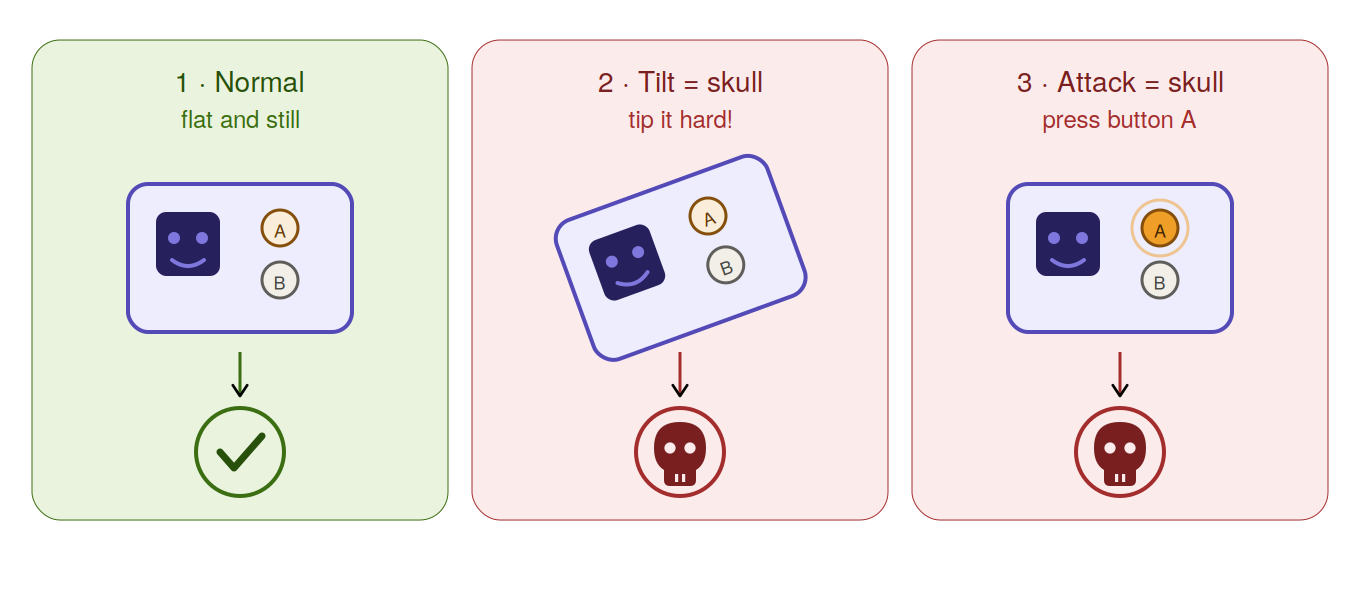
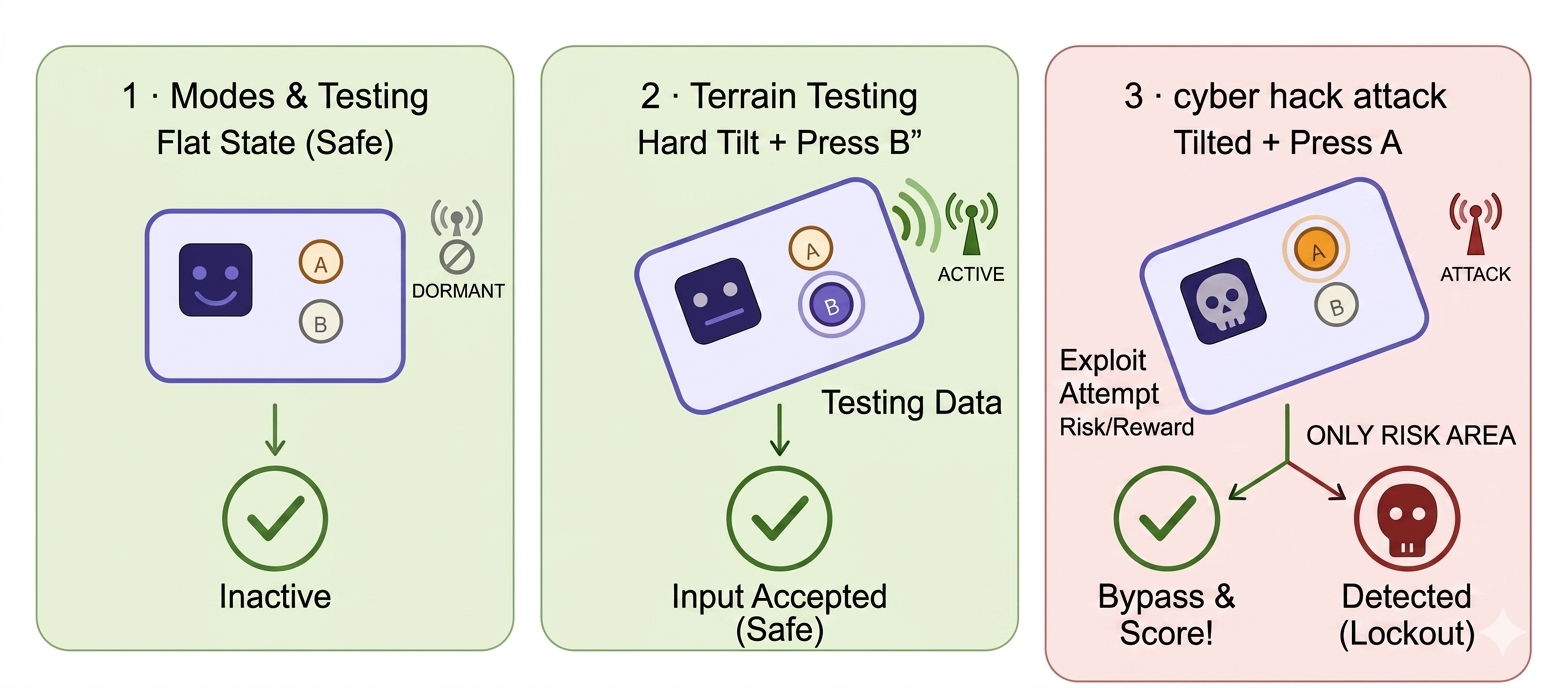
updated the lab

diff --git a/microbit_tutorial.html b/microbit_tutorial.html
@@ -311,7 +311,7 @@
 
         <div class="step">
             <h2><span class="step-number">3</span> Step 1: Programming Your Rover Controller 🕹</h2>
-            <p>Copy the code below and paste it completely into your micro:bit Python editor window. Look closely at the highlighted <strong>CHALLENGE ZONE</strong>—this is where you will tweak the logic rules!</p>
+            <p>Copy the code below and paste it completely into your micro:bit Python editor window.</p>
 
             <div class="code-container">
                 <button class="copy-btn" onclick="copyCode(this)">Copy Code</button>
@@ -388,14 +388,30 @@ while True:
         </div>
 
         <div class="step">
-            <h2><span class="step-number">4</span> Step 2: Running and Testing Your Code 🚀</h2>
+            <h2><span class="step-number">4</span> Step 2: Load your code onto the micro:bit 🚀</h2>
             <p>Ready to deploy your software? Follow this checklist to load your code onto the hardware:</p>
             <ol>
                 <li>Hook your micro:bit up to the computer using the micro-USB cable.</li>
-                <li>Select the purple <strong>Connect</strong> button in your browser editor tool, highlight your device, and click pair.</li>
-                <li>Click the <strong>Flash</strong> button. Watch the light on the back of your board blink until it is finished.</li>
-                <li><strong>Play the Game:</strong> Leave the controller resting completely flat on your desk. You will see a green checkmark (✅). Now, tilt your board sharply to one side or press down on <strong>Button A</strong>. Can you trick the system into showing the security alarm (🚨 <strong>SKULL</strong>)? If so, your simulated anomaly successfully broke past normal boundaries!</li>
+                <li>Open the MicroPython editor in your browser (use Chrome or Edge).</li>
+                <li>Click the purple <strong>Connect</strong> button in your browser editor tool, highlight your device, and click pair.</li>
+                <li>Click the <strong>Flash</strong> button.</li>
+                <li>Watch the light on the back of your board to finish blinking — this means your code is installed.</li>
             </ol>
+
+            <h2><span class="step-number">4</span> Step 3: Connect to the live system (Gateway setup) </h2>
+            <p>Now you need to connect your micro:bit to the AI telemetry system:</p>
+            <ol>
+                <li>Open <a href="https://rover-ai-shield-22216060250.europe-west2.run.app/gateway">this page</a> in Chrome or Edge.</li>
+                <li>Click the button: <strong>"Connect micro:bit"</strong>.</li>
+                <li>Select your device when prompted.</li>
+                <li>You should now see:
+                    <ul>
+                        <li>“Data link active”</li>
+                        <li>Live telemetry messages appearing in the log window</li>
+                    </ul>
+                </li>
+            </ol>
+            <p style="margin-top: 10px;">This means your micro:bit is successfully sending data to the AI system.</p>
 
             <div class="diagram-container">
                 <h4>🎮 Expected Controller Behavior</h4>
@@ -403,66 +419,68 @@ while True:
             </div>
         </div>
 
+        <div class="step">
+            <h2><span class="step-number">6</span> How to Play the System (IMPORTANT) 🎮</h2>
+            <p>Your micro:bit has two distinct operational control modes:</p>
+            <ul style="margin-top: 10px;">
+                <li><strong>🅰 Button A = ATTACK MODE</strong>
+                    <ul>
+                        <li>Sends an “exploit attempt” to the AI system.</li>
+                        <li>Counts as a hacking action on the leaderboard dashboard.</li>
+                        <li>High point reward if successful, but carries a high risk of detection.</li>
+                        <li><em>👉 Example: trying to “trick” the on-board AI security shield.</em></li>
+                    </ul>
+                </li>
+                <li style="margin-top: 10px;"><strong>🅱 Button B = NORMAL MODE</strong>
+                    <ul>
+                        <li>Sends standard movement telemetry data.</li>
+                        <li>Used for baseline exploration, testing, and debugging.</li>
+                        <li>No hacking attempt recorded by the telemetry filters.</li>
+                        <li><em>👉 Example: simulated safe rover driving behavior.</em></li>
+                    </ul>
+                </li>
+            </ul>
+
+        </div>
 
         <div class="step">
-            <h2><span class="step-number">5</span> Technical Reference: Data Layouts</h2>
-            <p>Here is a quick look at the exact information fields travelling back and forth between your controller and the server dashboard application.</p>
+            <h2><span class="step-number">7</span> Play the Challenge 🧪</h2>
+            <p>Start interacting with the telemetry matrix and see how the AI Shield updates:</p>
+            <ol>
+                <li>Leave the micro:bit hardware completely flat on your work surface.</li>
+                <li>Press <strong>Button B</strong> to send standard, safe movement data.</li>
+                <li>Tilt the physical micro:bit sideways and observe how the system dynamic metrics react.</li>
+                <li>Press <strong>Button A</strong> while tilted to attempt an automated telemetry "hack".</li>
+            </ol>
+            <p style="margin-top: 10px;">Watch carefully: The AI may reward your team with high scores, or it will detect your anomaly injection and trigger a security shield warning block!</p>
 
-            <h3>Data Sent to the Server</h3>
-            <table>
-                <thead>
-                    <tr>
-                        <th>Field Name</th>
-                        <th>Type</th>
-                        <th>What It Controls</th>
-                    </tr>
-                </thead>
-                <tbody>
-                    <tr>
-                        <td><code>team_id</code></td>
-                        <td>Text</td>
-                        <td>Logs the name of the cohort station transmitting information.</td>
-                    </tr>
-                    <tr>
-                        <td><code>attack</code></td>
-                        <td>True/False</td>
-                        <td>Tells the server if you are attempting an override command injection.</td>
-                    </tr>
-                    <tr>
-                        <td><code>mod_value</code></td>
-                        <td>Decimal</td>
-                        <td>The live tilt physical stress measurement read from your accelerometer.</td>
-                    </tr>
-                </tbody>
-            </table>
+            <div class="alert-box" style="background-color: #fef2f2; border-left: 4px solid #dc2626; color: #991b1b; margin-top: 20px; padding: 15px;">
+                <strong style="font-size: 1.1rem;">💀 AI Feedback System</strong>
+                <p style="margin-top: 5px;">After each data transmission action, check your physical micro:bit board screen for instantaneous status flags:</p>
+                <ul style="margin-top: 5px; margin-left: 20px;">
+                    <li><strong>✅ YES (Checkmark):</strong> Safe configuration / accepted input structure.</li>
+                    <li><strong>💀 SKULL:</strong> The AI detected unusual telemetry behavior. The exploit attempt was completely blocked!</li>
+                </ul>
+            </div>
+            <div class="challenge-box" style="background-color: #fff7ed; border-left: 4px solid #f97316; padding: 15px; margin-top: 20px;">
+                <h4 style="color: #c2410c;">⚠ Important System Rule</h4>
+                <p>Each button press sends <strong>one message only</strong>. Holding a button down will <strong>NOT</strong> spam the server system. You must experiment carefully with your tilt configuration, not just spam inputs blindly.</p>
+            </div>
+        </div>
 
-            <h3>Data Received from the Server</h3>
-            <table>
-                <thead>
-                    <tr>
-                        <th>Field Name</th>
-                        <th>Type</th>
-                        <th>What It Controls</th>
-                    </tr>
-                </thead>
-                <tbody>
-                    <tr>
-                        <td><code>status</code></td>
-                        <td>Text</td>
-                        <td>Confirms if the server communication channel is online and stable.</td>
-                    </tr>
-                    <tr>
-                        <td><code>ai_caught</code></td>
-                        <td>True/False</td>
-                        <td>Returns <code>True</code> if the AI model flags your physical data sequence as an anomaly.</td>
-                    </tr>
-                    <tr>
-                        <td><code>anomaly_score</code></td>
-                        <td>Decimal</td>
-                        <td>The AI safety score. Higher variations mean your patterns look highly abnormal.</td>
-                    </tr>
-                </tbody>
-            </table>
+        <div class="step">
+            <h2><span class="step-number">8</span> Check Your Score 📊</h2>
+            <p>You can track your mission progress live on the central classroom monitor display or locally by viewing the app dashboard:</p>
+            <p style="margin-top: 10px; margin-bottom: 10px;">
+                👉 <strong><a href="https://rover-ai-shield-22216060250.europe-west2.run.app" target="_blank">Open Main App Leaderboard (/)</a></strong>
+            </p>
+            <p>On this main application monitor screen, you will watch live updates for:</p>
+            <ul style="margin-top: 5px;">
+                <li>🏆 <strong>Live Team Scores:</strong> Real-time ranked hacking attempts!</li>
+                <li>⚠ <strong>Alarm Levels:</strong> Real-time track of how suspicious the AI shield is of your team.</li>
+                <li>🚫 <strong>Lockouts:</strong> Active freeze penalty timers if the automated system blocks you for rules violations.</li>
+                <li>📈 <strong>Real-time Ranking Changes:</strong> Watch rows flash and swap places automatically as scores shift!</li>
+            </ul>
         </div>
 
         <div class="step">
